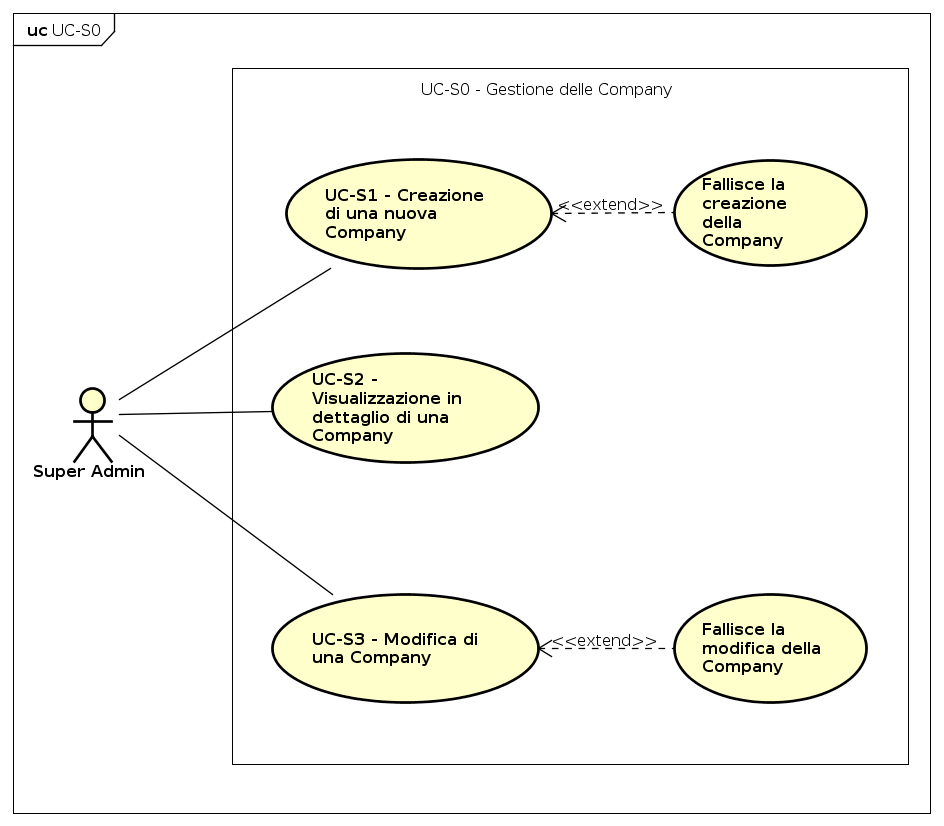
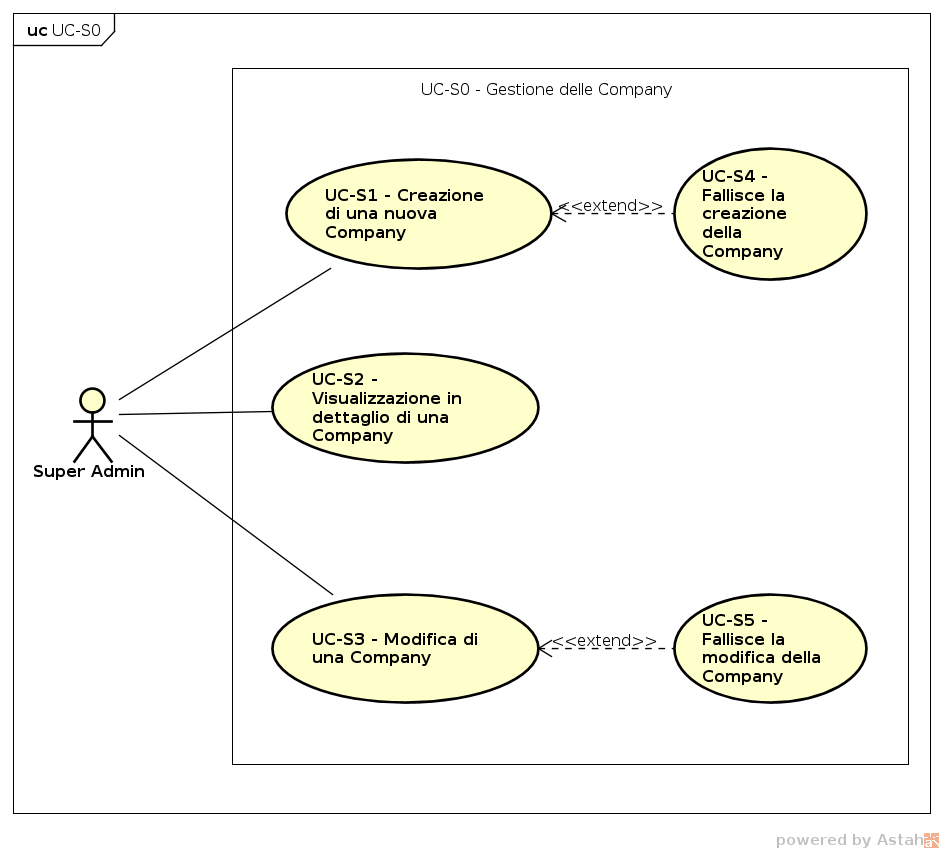
activity #302, issue #309

diff --git a/official/AnalisiDeiRequisiti/res/sections/superadmin.tex b/official/AnalisiDeiRequisiti/res/sections/superadmin.tex
@@ -391,7 +391,7 @@ Di seguito vengono elencati i \glossaryItem{casi} d'uso per il \glossaryItem{Sup
       \begin{longtable}{  p{3.5cm} | p{8cm} } 
         
         \hline
-        \multicolumn{2}{ | c | }{ \cellcolor[gray]{0.9} \textbf{UC-S4 - Fallisce la modifica di una \glossaryItem{Company}}} \\ 
+        \multicolumn{2}{ | c | }{ \cellcolor[gray]{0.9} \textbf{UC-S5 - Fallisce la modifica di una \glossaryItem{Company}}} \\ 
         \hline
         
         \textbf{Attori Primari} & \glossaryItem{Super-Admin}\\  
